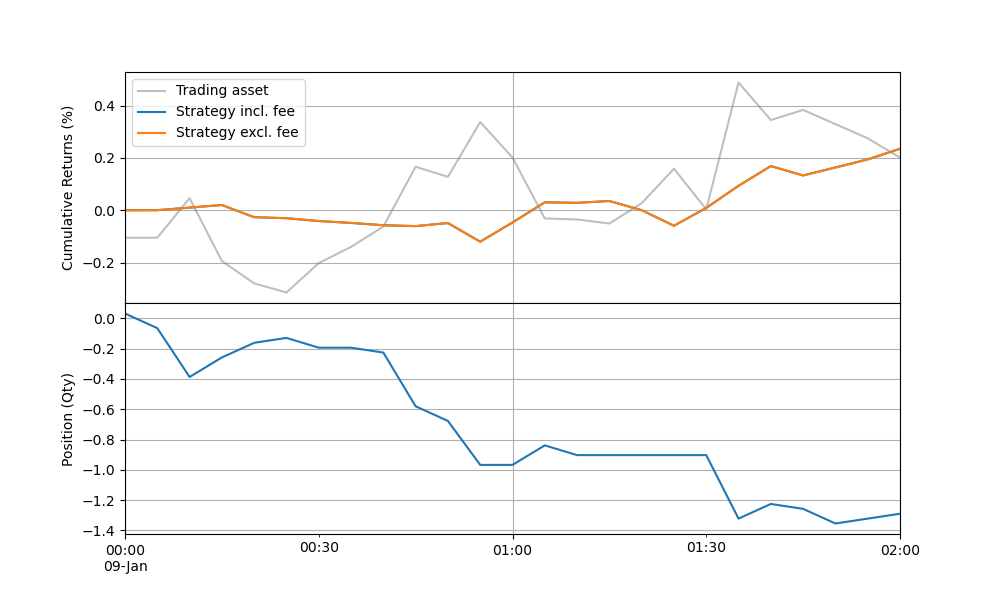
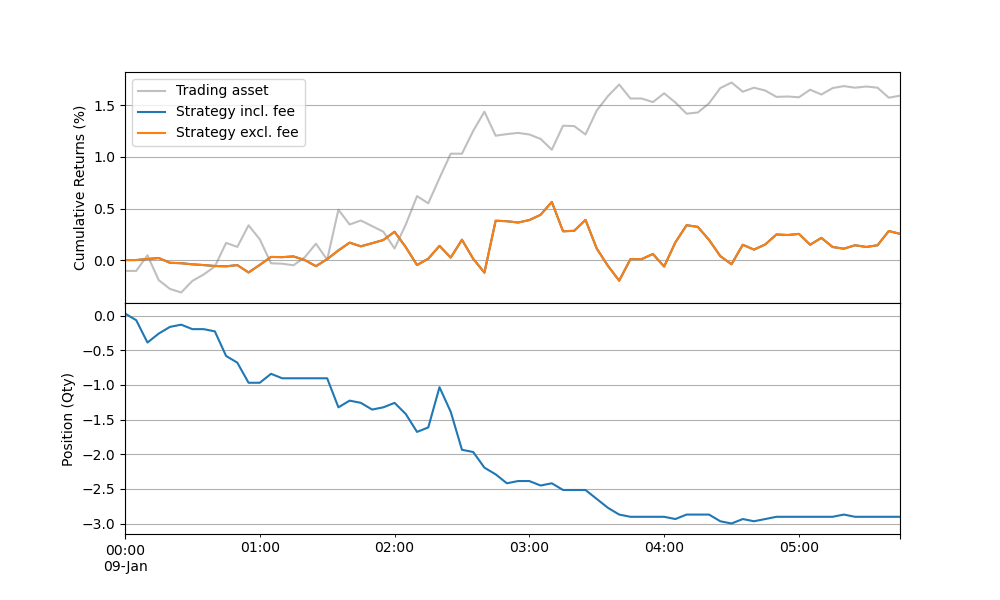
changed order skew

Changed region(s): [[0.093, 0.51, 0.93, 0.93], [0.062, 0.12, 0.899, 0.48], [0.093, 0.15, 0.124, 0.18]]

diff --git a/mmtester/dual_as_quoter.py b/mmtester/dual_as_quoter.py
@@ -68,10 +68,10 @@ class DualASQuoter():
         future_bid_size_weights /= np.sum(future_bid_size_weights)
         future_ask_size_weights /= np.sum(future_ask_size_weights)
         
-        spot_bid_size_weights *= self.quote_size
-        spot_ask_size_weights *= self.quote_size
-        future_bid_size_weights *= self.quote_size
-        future_ask_size_weights *= self.quote_size
+        spot_bid_size_weights *= self.quote_size * max(0.01, 1 - self.spot_q)
+        spot_ask_size_weights *= self.quote_size * max(0.01, 1 + self.spot_q)
+        future_bid_size_weights *= self.quote_size * max(0.01, 1 - self.delta_q)
+        future_ask_size_weights *= self.quote_size * max(0.01, 1 + self.delta_q)
         
         spot_bid_spreads = np.power(self.spot_bid_price_skew_factor, np.linspace(0, self.spot_bid_levels-1, self.spot_bid_levels))
         spot_ask_spreads = np.power(self.spot_ask_price_skew_factor, np.linspace(0, self.spot_ask_levels-1, self.spot_ask_levels))

diff --git a/sample.py b/sample.py
@@ -7,8 +7,7 @@ from mmtester.inverse_instrument import InverseInstrument
 from mmtester.data import Data
 
 if __name__ == '__main__':
-    df = pd.read_csv("./mmtester/data_generator/data/data.csv.gz", header=0, index_col=0, parse_dates=[0]).iloc[:60000
-                                                                                                                ]
+    df = pd.read_csv("./mmtester/data_generator/data/data.csv.gz", header=0, index_col=0, parse_dates=[0]).iloc[:160000]
     exch = Exchange(500, 500)
     spot_instr = InverseInstrument("perp", 0.000, 0.0005)
     future_instr = InverseInstrument("future", 0.000, 0.0005)
